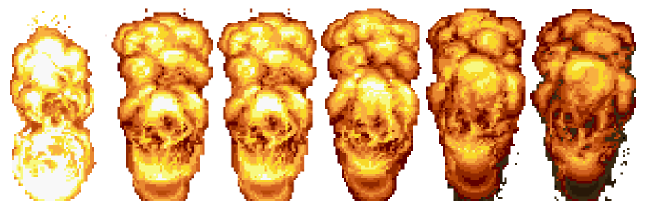
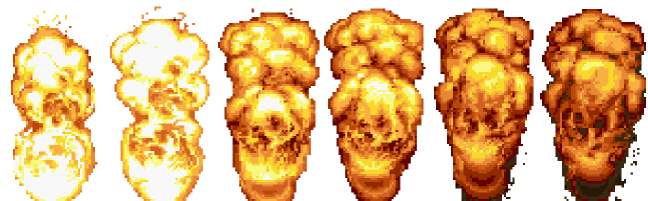
explosions

diff --git a/PlayState.cpp b/PlayState.cpp
@@ -58,6 +58,7 @@ void PlayState::Keyboard(char key)
       if((*it)->GetName().size() == str.size())
       {
         //std::cout << "JEDNAKO " << i << "  "<<  m_organisms.size() << '\n';
+        AddExplosion("explosion", m_organisms[i]->GetAnimation().GetX()-30, m_organisms[i]->GetAnimation().GetY()-120);
         DeleteOrganism(i);
         m_book.KillPerson(str);
         m_inputText.clear();
@@ -133,6 +134,8 @@ void PlayState::Update(float dt)
         m_book.LoseTime(5);
       }
     }
+    UpdateAnimations();
+
   }
 }
 void PlayState::Render(sf::RenderWindow& window)
@@ -151,6 +154,7 @@ void PlayState::Render(sf::RenderWindow& window)
     for (auto it = m_organisms.begin(); it != m_organisms.end(); it++) {
       (*it)->Render(window);
     }
+    RenderAnimations(window);
   }
   if (m_drawBook) {
     // iscrtavanje knjige
@@ -193,7 +197,7 @@ void PlayState::Controller(sf::Keyboard::Key& key)
       if (m_selectedOption < 0) {
         m_selectedOption = m_options.size() - 1;
       }
-    } else if (key == sf::Keyboard::Key::Space) {
+    } else if (key == sf::Keyboard::Key::Space || key == sf::Keyboard::Key::Return) {
       if (m_selectedOption == m_options.size()-1) {
         Clean();
         exit(EXIT_SUCCESS);
@@ -213,4 +217,29 @@ void PlayState::SortOrganisms()
   std::sort(m_organisms.begin(), m_organisms.end(), [](const Organism* l, const Organism* r) {
     return l->GetAnimation().GetY() < r->GetAnimation().GetY();
   });
+}
+void PlayState::AddExplosion(const std::string resourceName, float x, float y)
+{
+  Animation *animation = new Animation(sf::Sprite(p_game->Textures().Get(resourceName)), 0, 0, 108, 201, 6, 0.05, RIGHT);
+  animation->SetPosition(x, y);
+  m_animations.push_back(animation);
+}
+void PlayState::UpdateAnimations()
+{
+  for (size_t i = 0; i < m_animations.size(); i++) {
+    if (m_animations[i]->Update()) {
+      RemoveAnimation(i);
+    }
+  }
+}
+void PlayState::RenderAnimations(sf::RenderWindow& window)
+{
+  for (size_t i = 0; i < m_animations.size(); i++) {
+    m_animations[i]->Render(window);
+  }
+}
+void PlayState::RemoveAnimation(size_t index)
+{
+  m_animations[index] = m_animations.back();
+  m_animations.pop_back();
 }

diff --git a/headers/PlayState.h b/headers/PlayState.h
@@ -18,6 +18,9 @@ public:
   void AddPerson();
   void Keyboard(char key);
   void Controller(sf::Keyboard::Key& key); // za kretanje kroz meni
+
+
+
 private:
   std::vector<sf::Text> m_options;
 
@@ -33,6 +36,7 @@ private:
   // objects
   std::vector<Organism*> m_organisms;
   std::vector<char> m_inputText;
+  std::vector<Animation*> m_animations;
   Book m_book;
 
   // bools - logic
@@ -52,4 +56,8 @@ private:
 private:
   void DeleteOrganism(size_t indeks);
   void SortOrganisms();
+  void RenderAnimations(sf::RenderWindow& window);
+  void UpdateAnimations();
+  void RemoveAnimation(size_t index);
+  void AddExplosion(const std::string resourceName, float x, float y);
 };

diff --git a/Animation.cpp b/Animation.cpp
@@ -44,7 +44,7 @@ bool Animation::Update()
         m_spriteSheet.setTextureRect(sf::IntRect(m_imgX, m_imgY, m_width, m_height));
       }
 
-      if (m_imgX == m_num * m_width - m_width) {
+      if (m_imgX == m_num * m_width) {
         m_imgX = 0;
         m_clock.restart();
         return true; // Kada se zavrsi animacija, Update vraca true
